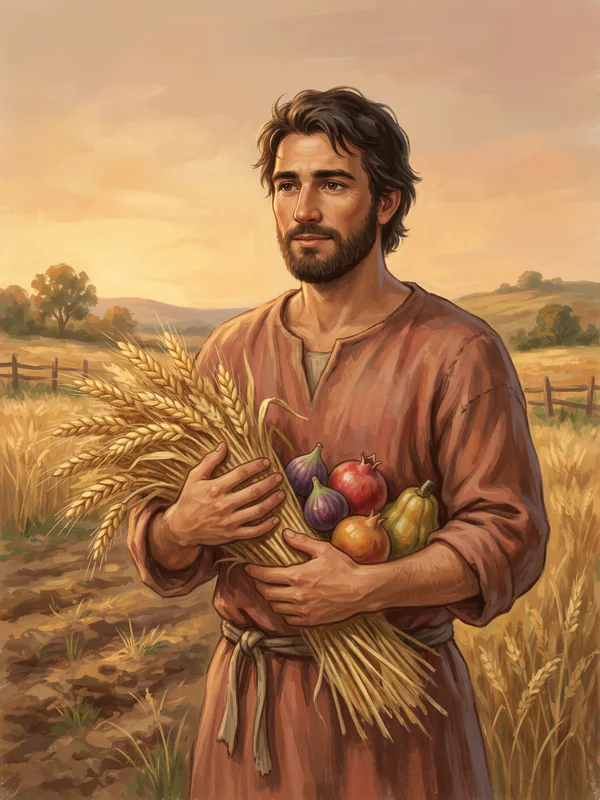
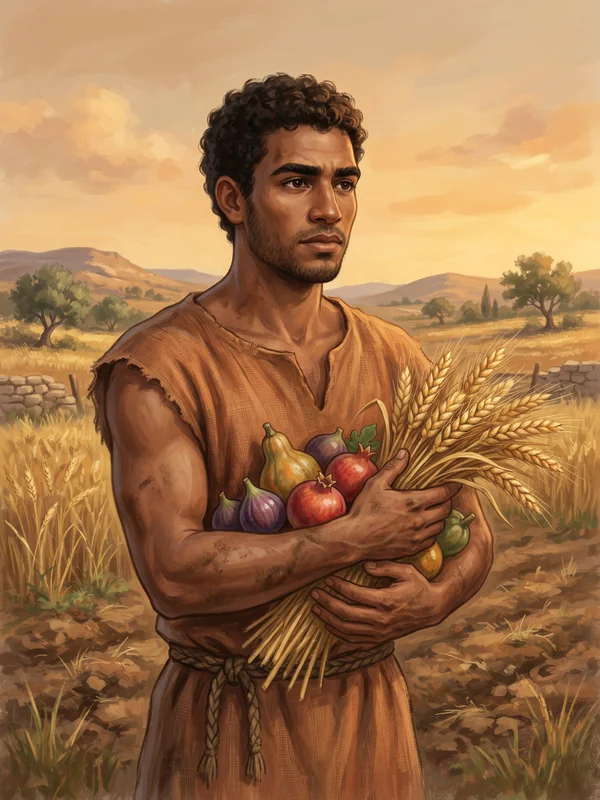
Publica teste: 3df09ef v53: Caim refeito com visual próprio

diff --git a/sw.js b/sw.js
@@ -1,6 +1,6 @@
 // Offline: rede primeiro (pega atualizações quando há internet), cache como reserva.
 // Ao mudar a lista de arquivos, suba a versão.
-const VERSAO = 'v52';
+const VERSAO = 'v53';
 const PREFIXO = 'ajornada:' + self.registration.scope + ':';
 const CACHE = PREFIXO + VERSAO;
 const ARQUIVOS = [

diff --git a/ferramentas/gerar_prompts.py b/ferramentas/gerar_prompts.py
@@ -248,7 +248,9 @@ CENA_LOTE1 = {
             'imensa paisagem abaixo dela com rios serpenteando e, bem distante no horizonte, um jardim exuberante brilhando; '
             'céu enorme ao nascer do sol, com nuvens iluminadas em dourado e rosa', 'Gn 3:20-21; 4:1'),
     'caim': ('segurando nos braços feixes de grãos e frutos do campo como oferta',
-             'homem adulto, lavrador, de mãos fortes, com roupas de trabalho no campo',
+             'homem jovem de uns 20 anos, lavrador, robusto, rosto anguloso de sobrancelhas grossas e olhar sério, pele morena-escura, '
+             'cabelo preto curto e crespo, barba rala e curta, túnica curta sem mangas cor de ocre, braços fortes com terra nas mãos '
+             '(bem diferente de Adão, Sete e Sem: nada de cabelo ondulado nem barba cheia)',
              'campo cultivado ao entardecer, com sulcos de terra arada e trigo maduro', 'Gn 4:2-3'),
     'abel': ('caminhando em direção a um altar de pedras levando nos braços um cordeiro branco, o melhor do seu rebanho; '
              'a fumaça do altar sobe reta para o céu',
@@ -273,7 +275,9 @@ CENA_LOTE1 = {
             'o alto dos montes de Ararate logo depois da chuva, com um enorme arco-íris cruzando o céu de ponta a ponta',
             'Gn 8:4,18-20; 9:12-16'),
     'sem': ('de pé, olhar tranquilo, com a mão sobre o peito em gratidão',
-            'homem adulto de barba escura, filho de Noé',
+            'homem maduro, filho de Noé, testa larga e rosto largo, cabelo castanho curto com fios grisalhos nas têmporas, barba média '
+            'castanha grisalha nas pontas, manto azul-acinzentado sobre túnica creme e faixa vermelha na cintura (bem diferente de Caim, '
+            'Sete e Adão; mais jovem que Noé, sem barba branca)',
             'encosta de montanha verde depois da chuva, com a arca pequena e distante ao fundo', 'Gn 6:10; 9:18,26'),
     'ninrode': ('de pé, confiante, segurando um grande arco de madeira, com uma aljava de flechas nas costas',
                 'homem forte e imponente, caçador, de ombros largos e braços musculosos, pele morena queimada de sol, cabelo preto '
@@ -291,6 +295,7 @@ CENA_LOTE1 = {
                'deserto à noite sob um céu imenso repleto de estrelas e da Via Láctea, tenda iluminada por dentro atrás dele, '
                'luz dourada e prateada sobre o rosto', 'Gn 15:5; 17:5'),
 }
+REFAZER = {'sem'}
 JA_GERADAS = {'adao', 'eva', 'caim', 'sete', 'enoque', 'matusalem', 'sem', 'ninrode', 'abraao', 'tera', 'abel', 'noe'}
 
 
@@ -327,7 +332,7 @@ Para o traço não variar: uma conversa do Gemini por lote, anexando uma carta j
     resto = [c for c in CARTAS if c[0] not in CENA_LOTE1]
     out += "| Carta | Raridade | Situação |\n|---|---|---|\n"
     for c in lote:
-        sit = "✅ pronta (no app)" if c[0] in JA_GERADAS else "a gerar"
+        sit = "🔁 refazer (rosto parecido com outros)" if c[0] in REFAZER else "✅ pronta (no app)" if c[0] in JA_GERADAS else "a gerar"
         out += f"| {c[1]} | {NOME_RAR[RARIDADE.get(c[0], 'comum')]} | {sit} |\n"
     out += "\n"
     for c in lote:
